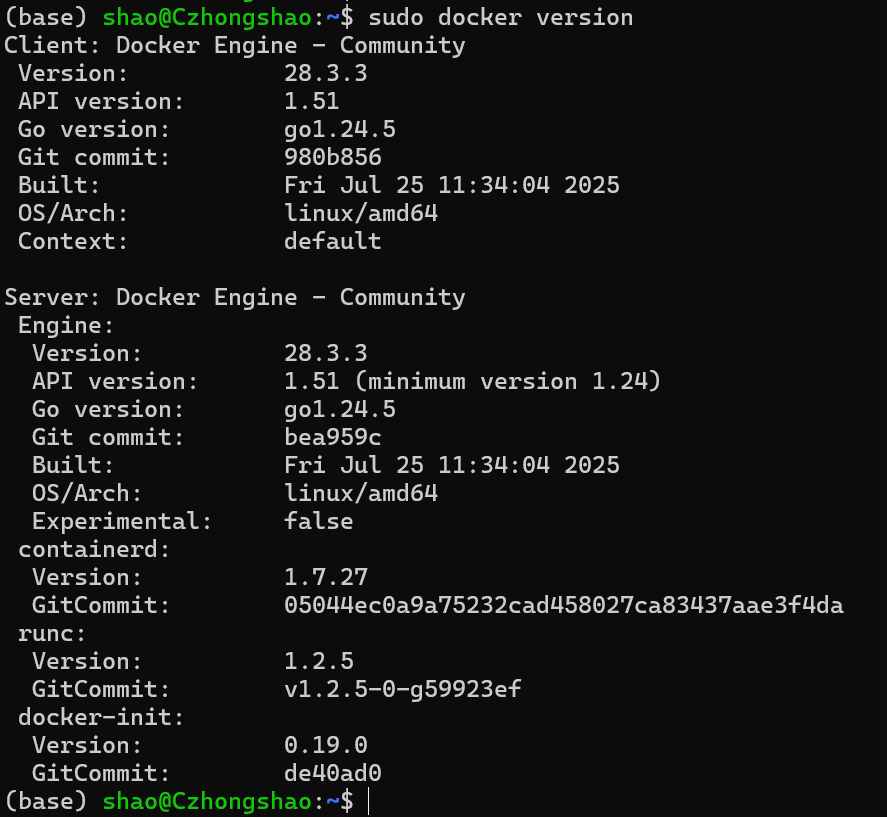
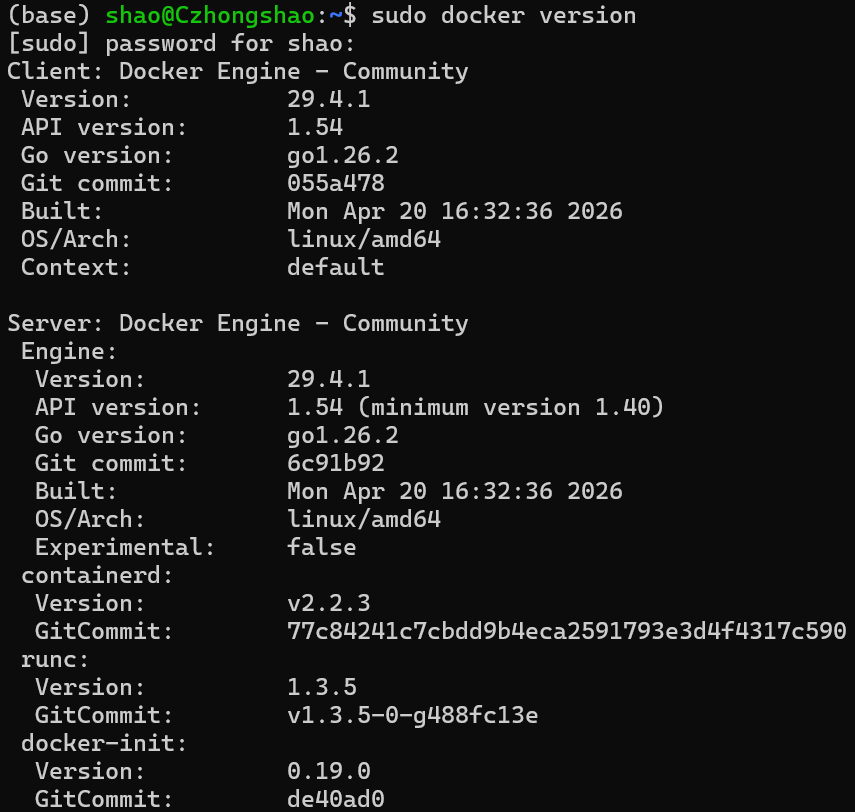
feat: 增加Docker的配置细节内容。 update: 补充Ubuntu关于systemd的配置。

Changed region(s): [[0.0, 0.0, 1.0, 1.0]]

diff --git a/技术学习笔记/Docker.md b/技术学习笔记/Docker.md
@@ -8,60 +8,55 @@
 sudo apt-get remove docker docker-engine docker.io containerd runc
 ```
 
-![卸载Docker](image/Docker/1753856090794.png)
+![卸载Docker](./image/Docker/卸载Docker.png)
 
-### 2. 安装必要支持
+### 2. 安装依赖
 
 ```bash
 sudo apt install apt-transport-https ca-certificates curl software-properties-common gnupg lsb-release
 ```
 
-![安装必要支持](image/Docker/1753857176509.png)
+![安装依赖](./image/Docker/安装必要支持.png)
 
-### 3. 添加 Docker GPG key
+### 3. 添加 Docker GPG 密钥
 
-Docker 官方 key
+1. **Docker 官方 key**
 
-```bash
-curl -fsSL https://download.docker.com/linux/ubuntu/gpg | sudo gpg --dearmor -o /usr/share/keyrings/docker-archive-keyring.gpg
-```
+    ```bash
+    curl -fsSL https://download.docker.com/linux/ubuntu/gpg | sudo gpg --dearmor -o /usr/share/keyrings/docker-archive-keyring.gpg
+    ```
 
-阿里源 key
+2. **阿里源 key**（推荐）
 
-```bash
-curl -fsSL https://mirrors.aliyun.com/docker-ce/linux/ubuntu/gpg | sudo gpg --dearmor -o /usr/share/keyrings/docker-archive-keyring.gpg
-```
+    ```bash
+    curl -fsSL https://mirrors.aliyun.com/docker-ce/linux/ubuntu/gpg | sudo gpg --dearmor -o /usr/share/keyrings/docker-archive-keyring.gpg
+    ```
 
-### 4. 添加 apt 源
+### 4. 设置稳定版仓库
 
-Docker 官方源
+1. **Docker 官方源**
 
-```bash
-echo "deb [arch=$(dpkg --print-architecture) signed-by=/usr/share/keyrings/docker-archive-keyring.gpg] https://download.docker.com/linux/ubuntu $(lsb_release -cs) stable" | sudo tee /etc/apt/sources.list.d/docker.list > /dev/null
-```
+    ```bash
+    echo "deb [arch=$(dpkg --print-architecture) signed-by=/usr/share/keyrings/docker-archive-keyring.gpg] https://download.docker.com/linux/ubuntu $(lsb_release -cs) stable" | sudo tee /etc/apt/sources.list.d/docker.list > /dev/null
+    ```
 
-阿里 apt 源
+2. **阿里源**（推荐）
 
-```bash
-echo "deb [arch=$(dpkg --print-architecture) signed-by=/usr/share/keyrings/docker-archive-keyring.gpg] https://mirrors.aliyun.com/docker-ce/linux/ubuntu $(lsb_release -cs) stable" | sudo tee /etc/apt/sources.list.d/docker.list > /dev/null
-```
-
-### 5. 更新源
-
-```bash
-sudo apt update
-sudo apt-get update
-```
+    ```bash
+    echo "deb [arch=$(dpkg --print-architecture) signed-by=/usr/share/keyrings/docker-archive-keyring.gpg] https://mirrors.aliyun.com/docker-ce/linux/ubuntu $(lsb_release -cs) stable" | sudo tee /etc/apt/sources.list.d/docker.list > /dev/null
+    ```
 
 ## 二、安装 Docker
 
 ### 1. 安装最新版本docker
 
 ```bash
+sudo apt update
+
 sudo apt install docker-ce docker-ce-cli containerd.io
 ```
 
-![安装docker](image/Docker/1753857426808.png)
+![安装docker](./image/Docker/安装docker.png)
 
 ### 2. 查看 Docker 版本
 
@@ -69,20 +64,31 @@ sudo apt install docker-ce docker-ce-cli containerd.io
 sudo docker version
 ```
 
-![查看docker版本](image/Docker/1753857520641.png)
+![查看docker版本](./image/Docker/查看docker版本.png)
 
 ### 3. 安装 Docker 命令补全工具
 
-```bash
-sudo apt-get install bash-completion
+1. 更新 CA 证书（可选，若下方出现SSL证书认证问题，可加 `-k`）
 
-sudo curl -L https://raw.githubusercontent.com/docker/docker-ce/master/components/cli/contrib/completion/bash/docker -o /etc/bash_completion.d/docker.sh
+    ```bash
+    sudo apt-get install --reinstall ca-certificates
+    sudo update-ca-certificates
+    ```
 
-source /etc/bash_completion.d/docker.sh
-```
+    ![更新CA证书](./image/Docker/更新CA证书.png)
 
-![安装命令补全工具](image/Docker/安装命令补全工具.png)
-![安装命令补全工具2](image/Docker/安装命令补全工具2.png)
+2. 安装工具
+
+    ```bash
+    sudo apt-get install bash-completion
+
+    sudo curl -k -L https://raw.githubusercontent.com/docker/docker-ce/master/components/cli/contrib/completion/bash/docker -o /etc/bash_completion.d/docker.sh
+
+    source /etc/bash_completion.d/docker.sh
+    ```
+
+    ![安装命令补全工具](./image/Docker/安装命令补全工具.png)
+    ![安装命令补全工具2](./image/Docker/1776769353879.png)
 
 ### 4. 允许非 root 用户执行 docker 命令
 
@@ -97,7 +103,7 @@ sudo vim /etc/docker/daemon.json
 
 修改配置文件，添加下面内容：
 
-```bash
+```txt
 {
     "registry-mirrors": 
     [
@@ -120,16 +126,48 @@ docker system prune -a
 sudo systemctl restart docker
 ```
 
+![配置镜像站](./image/Docker/配置镜像站.png)
+
 ### 5. 启动并查看 Docker 运行状态
 
 ```bash
 sudo systemctl start docker
 
-sudo systemctl satus docker
+sudo systemctl status docker
 ```
+
+![查看Docker状态](./image/Docker/查看Docker状态.png)
 
 ### 6. 测试拉取镜像
 
 ```bash
 sudo docker pull nginx
 ```
+
+![拉取镜像测试](image/Docker/拉取镜像测试.png)
+
+## 三、Docker 常用命令速查表
+
+| 命令                            | 作用               | 示例                                            |
+| ------------------------------- | ------------------ | ----------------------------------------------- |
+| `docker pull nginx`             | 拉取镜像           | 从仓库下载 nginx 镜像                           |
+| `docker images`                 | 列出本地镜像       | 查看已下载的所有镜像                            |
+| `docker rmi nginx`              | 删除镜像           | 删除名为 nginx 的镜像                           |
+| `docker run -d -p 80:80 nginx`  | 运行容器           | 后台运行 nginx，映射主机80端口到容器80端口      |
+| `docker ps`                     | 查看运行中的容器   | 列出当前正在运行的容器                          |
+| `docker ps -a`                  | 查看所有容器       | 包括已停止的容器                                |
+| `docker start <容器ID>`         | 启动容器           | 启动一个已停止的容器                            |
+| `docker stop <容器ID>`          | 停止容器           | 优雅停止运行中的容器                            |
+| `docker restart <容器ID>`       | 重启容器           | 重启指定容器                                    |
+| `docker rm <容器ID>`            | 删除容器           | 删除一个已停止的容器                            |
+| `docker exec -it <容器ID> bash` | 进入容器内部       | 以交互方式进入容器执行命令                      |
+| `docker logs <容器ID>`          | 查看容器日志       | 查看容器的标准输出日志                          |
+| `docker build -t myapp .`       | 构建镜像           | 使用当前目录的 Dockerfile 构建名为 myapp 的镜像 |
+| `docker tag nginx mynginx:v1`   | 给镜像打标签       | 为 nginx 镜像创建新标签                         |
+| `docker push mynginx:v1`        | 推送镜像到仓库     | 将镜像推送到远程仓库                            |
+| `docker-compose up -d`          | 启动编排服务       | 后台启动 docker-compose.yml 中定义的所有服务    |
+| `docker-compose down`           | 停止并移除编排服务 | 停止并删除 compose 创建的所有容器和网络         |
+| `docker volume ls`              | 列出数据卷         | 查看所有 Docker 数据卷                          |
+| `docker network ls`             | 列出网络           | 查看所有 Docker 网络                            |
+| `docker system df`              | 查看磁盘占用       | 显示镜像、容器、数据卷的磁盘使用情况            |
+| `docker system prune`           | 清理无用数据       | 删除所有未使用的容器、网络、镜像（慎用）        |

diff --git a/技术学习笔记/UbuntuSettings.md b/技术学习笔记/UbuntuSettings.md
@@ -162,3 +162,44 @@
     ![默认以普通用户登录](./image/UbuntuSettings/默认普通用户登陆.png)
 
 ---
+
+## 三、WSL2 安装 Systemd 守护进程（可选）
+
+systemd 是 Linux 系统的基本构建基块套件。它提供一个系统和服务管理器，该管理器作为 PID 1 运行并启动系统的其余部分。
+
+wsl systemd 在运行 docker、nginx、mysql 后台服务时会很方便。
+
+### 1. 编辑配置文件
+
+```bash
+sudo vim /etc/wsl.conf
+```
+
+输入以下内容，用于更改 systemd 的初始值。
+
+```txt
+[boot]
+systemd=true
+```
+
+### 2. Ubuntu 版本安装systemd-sysv
+
+```bash
+sudo apt-get update -y && sudo apt-get install systemd systemd-sysv -y
+```
+
+![systemd-sysv安装](./image/UbuntuSettings/systemd-sysv安装.png)
+
+### 3. 重启 WSL2 进程
+
+```bash
+wsl --shutdown
+```
+
+查看 systemd 状态。
+
+```bash
+systemctl status
+```
+
+![systemd状态](./image/UbuntuSettings/systemd状态.png)
